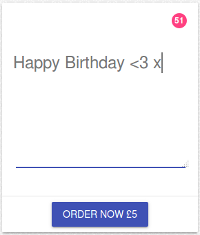
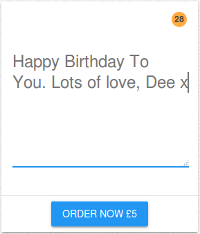
added new colour scheme

diff --git a/onethingshop.html b/onethingshop.html
@@ -5,7 +5,7 @@
     <meta name="author" content="Imran Nazir">
     <meta name="description" content="post a spatula">
     <meta name="viewport" content="width=device-width, initial-scale=1">
-    <link rel="stylesheet" href="https://code.getmdl.io/1.1.3/material.indigo-amber.min.css" />
+    <link rel="stylesheet" href="https://code.getmdl.io/1.1.3/material.blue-orange.min.css" />
     <link rel="stylesheet" href="https://fonts.googleapis.com/icon?family=Material+Icons">
     <link href='https://fonts.googleapis.com/css?family=Coming+Soon' rel='stylesheet' type='text/css'>
     <script defer src="https://code.getmdl.io/1.1.2/material.min.js"></script>
